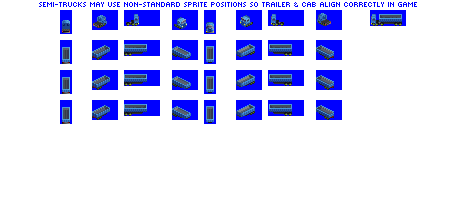
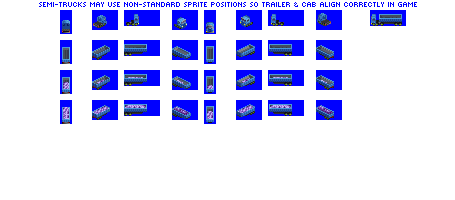
Change: cargo states working for dump trucks

diff --git a/src/road_vehicle.py b/src/road_vehicle.py
@@ -538,6 +538,7 @@ class DumpHauler(RoadVehicle):
                        'SAND': [4], 'COAL': [5], 'CLAY': [6], 'SCMT': [7]}
             self.generic_cargo_rows = [0]
             # handle different kinds of trucks (single unit, tractor-trailer, waggon+drag), which causes variations in start row per unit (bit janky) :P
+            # offset = spriterow num in template, multiplier = ~number of preceding units in consist
             self.spriterow_num = self.spriterow_adjust['offset'] + self.spriterow_adjust['multiplier'] * self.num_cargo_rows
 
 

diff --git a/src/vehicles/broadrock.py b/src/vehicles/broadrock.py
@@ -29,7 +29,7 @@ consist.add_unit(DumpHauler(consist = consist,
                         weight = 0, # put the weight on the truck to compensate for lack of TE when loaded
                         capacity = 85,
                         vehicle_length = 6,
-                        spriterow_num = 1))
+                        spriterow_adjust = {'multiplier': 0, 'offset': 1}))
 
 consist.add_model_variant(intro_date=0,
                        end_date=global_constants.max_game_date,

diff --git a/src/vehicles/honister.py b/src/vehicles/honister.py
@@ -27,7 +27,7 @@ consist.add_unit(DumpHauler(consist = consist,
                         weight = 6,
                         capacity = 30,
                         vehicle_length = 5,
-                        spriterow_num = 1))
+                        spriterow_adjust = {'multiplier': 0, 'offset': 1}))
 
 consist.add_model_variant(intro_date=0,
                        end_date=global_constants.max_game_date,

diff --git a/src/vehicles/powerstock.py b/src/vehicles/powerstock.py
@@ -27,7 +27,7 @@ consist.add_unit(DumpHauler(consist = consist,
                         weight = 8,
                         capacity = 40,
                         vehicle_length = 6,
-                        spriterow_num = 1))
+                        spriterow_adjust = {'multiplier': 0, 'offset': 1}))
 
 consist.add_model_variant(intro_date=0,
                        end_date=global_constants.max_game_date,

diff --git a/src/vehicles/wookey.py b/src/vehicles/wookey.py
@@ -27,7 +27,7 @@ consist.add_unit(DumpHauler(consist = consist,
                         weight = 8,
                         capacity = 40,
                         vehicle_length = 6,
-                        spriterow_num = 1))
+                        spriterow_adjust = {'multiplier': 0, 'offset': 1}))
 
 consist.add_model_variant(intro_date=0,
                        end_date=global_constants.max_game_date,
